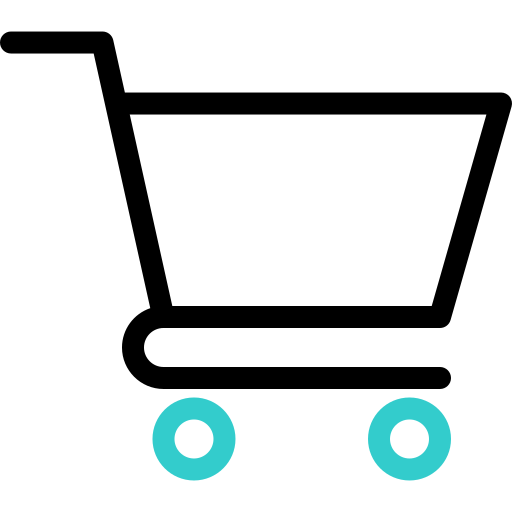
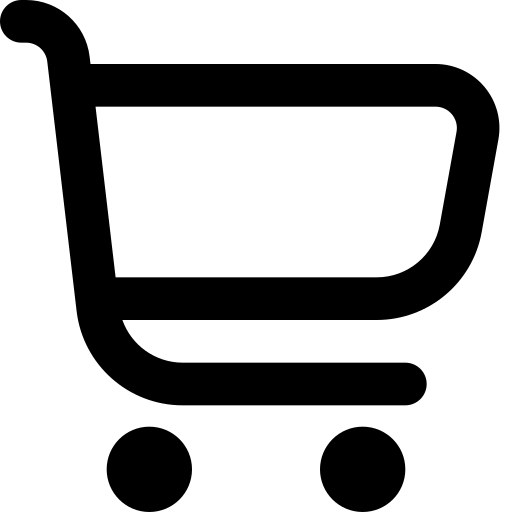
Cardapio-Hamburgueria

Changed region(s): [[0.0, 0.0, 1.0, 1.0], [0.2812, 0.6875, 0.8125, 0.7188]]

diff --git a/Caradapio_Hamburgueria/src/Cadapio_Pag_Inicial/Cardapio.java b/Caradapio_Hamburgueria/src/Cadapio_Pag_Inicial/Cardapio.java
@@ -125,7 +125,7 @@ public class Cardapio extends JFrame {
 		BotaoArredondado btnLogin = new BotaoArredondado("Login", 30);
 
 		btnLogin.setText("Login");
-		btnLogin.setForeground(Color.WHITE);
+		btnLogin.setForeground(Color.decode("#ffd96d"));
 		btnLogin.setFont(new Font("Arial", Font.BOLD, 16));
 		btnLogin.setBounds(565, 75, 100, 25);
 		btnLogin.setBackground(new Color(73, 71, 71));
@@ -172,7 +172,7 @@ public class Cardapio extends JFrame {
 		BotaoArredondado btnCadastrar = new BotaoArredondado("Cadastrar", 30);
 
 		btnCadastrar.setText("Cadastrar");
-		btnCadastrar.setForeground(Color.white);
+		btnCadastrar.setForeground(Color.decode("#ffd96d"));
 		btnCadastrar.setFont(new Font("Arial", Font.BOLD, 16));
 		btnCadastrar.setBounds(668, 75, 110, 25);
 		btnCadastrar.setBackground(new Color(73, 71, 71));
@@ -223,7 +223,7 @@ public class Cardapio extends JFrame {
 
 			// Cria o botão para voltar à página principal
 			JButton btnHome = createIconButton(
-					"C:\\Users\\Kaue\\Desktop\\Projeto-Integrador-3-semestre\\Fotos\\casa.png", "Página Principal");
+					"C:\\Users\\Kaue\\Desktop\\Projeto-Integrador-3-semestre\\Fotos\\casa2.png", "Página Principal");
 			btnHome.addActionListener(e -> {
 				// Lógica para voltar à página principal
 				JOptionPane.showMessageDialog(this, "Voltando à página principal...");
@@ -231,7 +231,7 @@ public class Cardapio extends JFrame {
 
 			// Cria o botão para ir ao carrinho
 			JButton btnCart = createIconButton(
-					"C:\\Users\\Kaue\\Desktop\\Projeto-Integrador-3-semestre\\Fotos\\carrinho-de-compras.png",
+					"C:\\Users\\Kaue\\Desktop\\Projeto-Integrador-3-semestre\\Fotos\\carrinho-de-compras2.png",
 					"Carrinho");
 			btnCart.addActionListener(e -> {
 				// Lógica para ir ao carrinho
@@ -240,7 +240,7 @@ public class Cardapio extends JFrame {
 
 			// Cria o botão para mostrar a conta do usuário
 			JButton btnAccount = createIconButton(
-					"C:\\Users\\Kaue\\Desktop\\Projeto-Integrador-3-semestre\\Fotos\\perfil.png", "Conta");
+					"C:\\Users\\Kaue\\Desktop\\Projeto-Integrador-3-semestre\\Fotos\\perfil2.png", "Conta");
 			btnAccount.addActionListener(e -> {
 				// Lógica para mostrar a conta do usuário
 				JOptionPane.showMessageDialog(this, "Mostrando informações da conta...");
@@ -361,7 +361,7 @@ public class Cardapio extends JFrame {
 
 	public void BotaoMenu() {
 		ImageIcon menuIcon = new ImageIcon(
-			    "C:\\Users\\Kaue\\Desktop\\Projeto-Integrador-3-semestre\\Fotos\\menu-hamburguer.png");
+			    "C:\\Users\\Kaue\\Desktop\\Projeto-Integrador-3-semestre\\Fotos\\menu-hamburguer2.png");
 			Image img = menuIcon.getImage().getScaledInstance(32, 32, Image.SCALE_SMOOTH);
 			menuIcon = new ImageIcon(img);
 
@@ -374,10 +374,10 @@ public class Cardapio extends JFrame {
 
 			JPopupMenu menuPopup = new JPopupMenu();
 
-		JMenuItem op1 = new JMenuItem("Cadastrar");
-		JMenuItem op2 = new JMenuItem("Alterar");
-		JMenuItem op3 = new JMenuItem("Buscar");
-		JMenuItem op4 = new JMenuItem("Excluir");
+		JMenuItem op1 = new JMenuItem("Cadastrar Produto");
+		JMenuItem op2 = new JMenuItem("Alterar Produto");
+		JMenuItem op3 = new JMenuItem("Buscar Produto");
+		JMenuItem op4 = new JMenuItem("Excluir Produto");
 
 		op1.addActionListener(e -> JOptionPane.showMessageDialog(this, "Opção 1 selecionada"));
 		op2.addActionListener(e -> JOptionPane.showMessageDialog(this, "Opção 2 selecionada"));

diff --git a/Caradapio_Hamburgueria/src/entrada/Entrada_Cardapio.java b/Caradapio_Hamburgueria/src/entrada/Entrada_Cardapio.java
@@ -110,7 +110,7 @@ public class Entrada_Cardapio extends JFrame {
 		BotaoArredondado b = new BotaoArredondado("Ver Cardápio", 30);
 
 		b.setText("Ver Cardápio");
-		b.setForeground(Color.white);
+		b.setForeground(Color.decode("#ffd96d"));
 		b.setFont(new Font("Arial", Font.BOLD, 16));
 		b.setBounds(280, 270, 250, 35);
 		b.setBackground(new Color(0, 0, 0));
